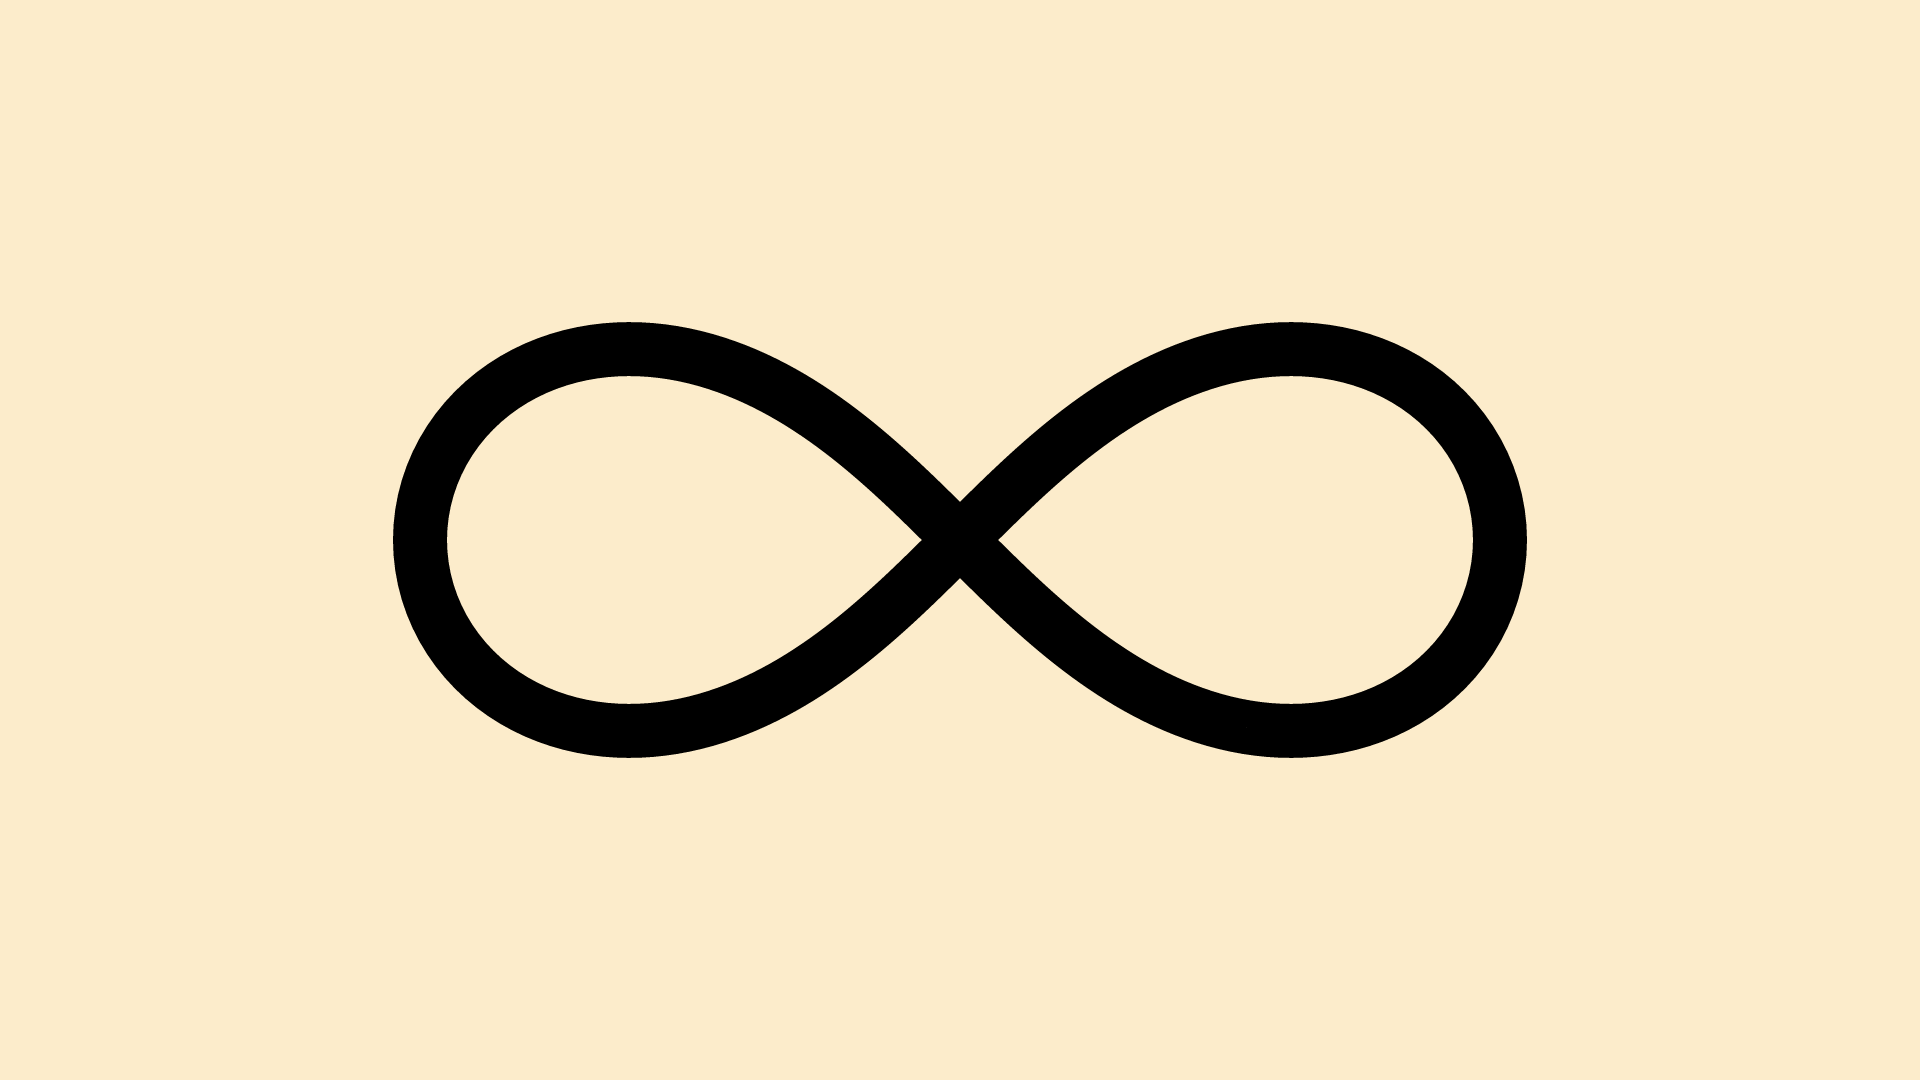
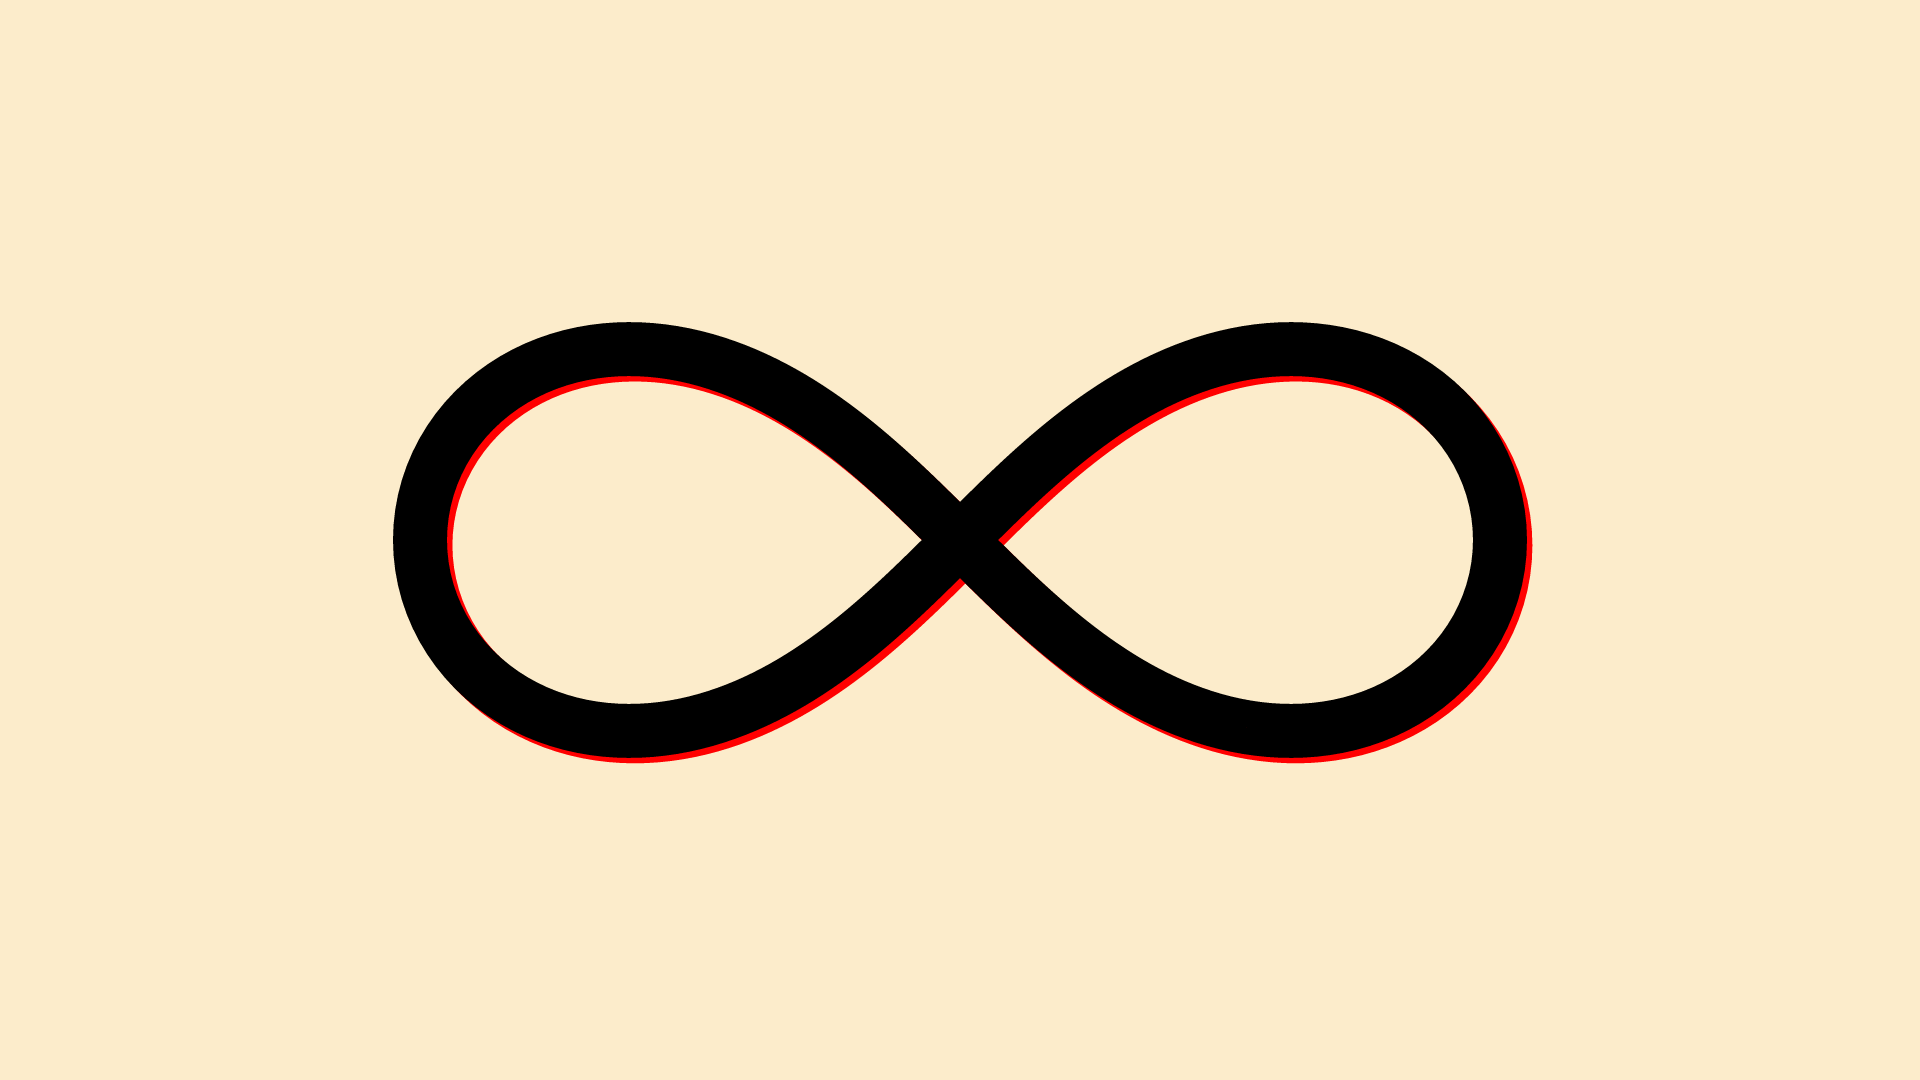
Red border

diff --git a/src/mugen.rs b/src/mugen.rs
@@ -13,7 +13,6 @@ pub fn draw(canvas: &mut Canvas) {
     paint.set_anti_alias(true);
     paint.set_style(PaintStyle::Stroke);
     paint.set_stroke_width(0.1);
-    paint.set_color(Color::BLACK);
 
     let mut path = Path::new();
     path.move_to(get_coords(-std::f32::consts::PI));
@@ -31,6 +30,13 @@ pub fn draw(canvas: &mut Canvas) {
     let scale = canvas.width().min(canvas.height()) * SCALE;
     canvas.scale((scale, scale));
 
+    canvas.save();
+    canvas.translate((0.01, 0.01));
+    paint.set_color(Color::RED);
+    canvas.draw_path(&path, &paint);
+    canvas.restore();
+
+    paint.set_color(Color::BLACK);
     canvas.draw_path(&path, &paint);
 
     canvas.restore();
